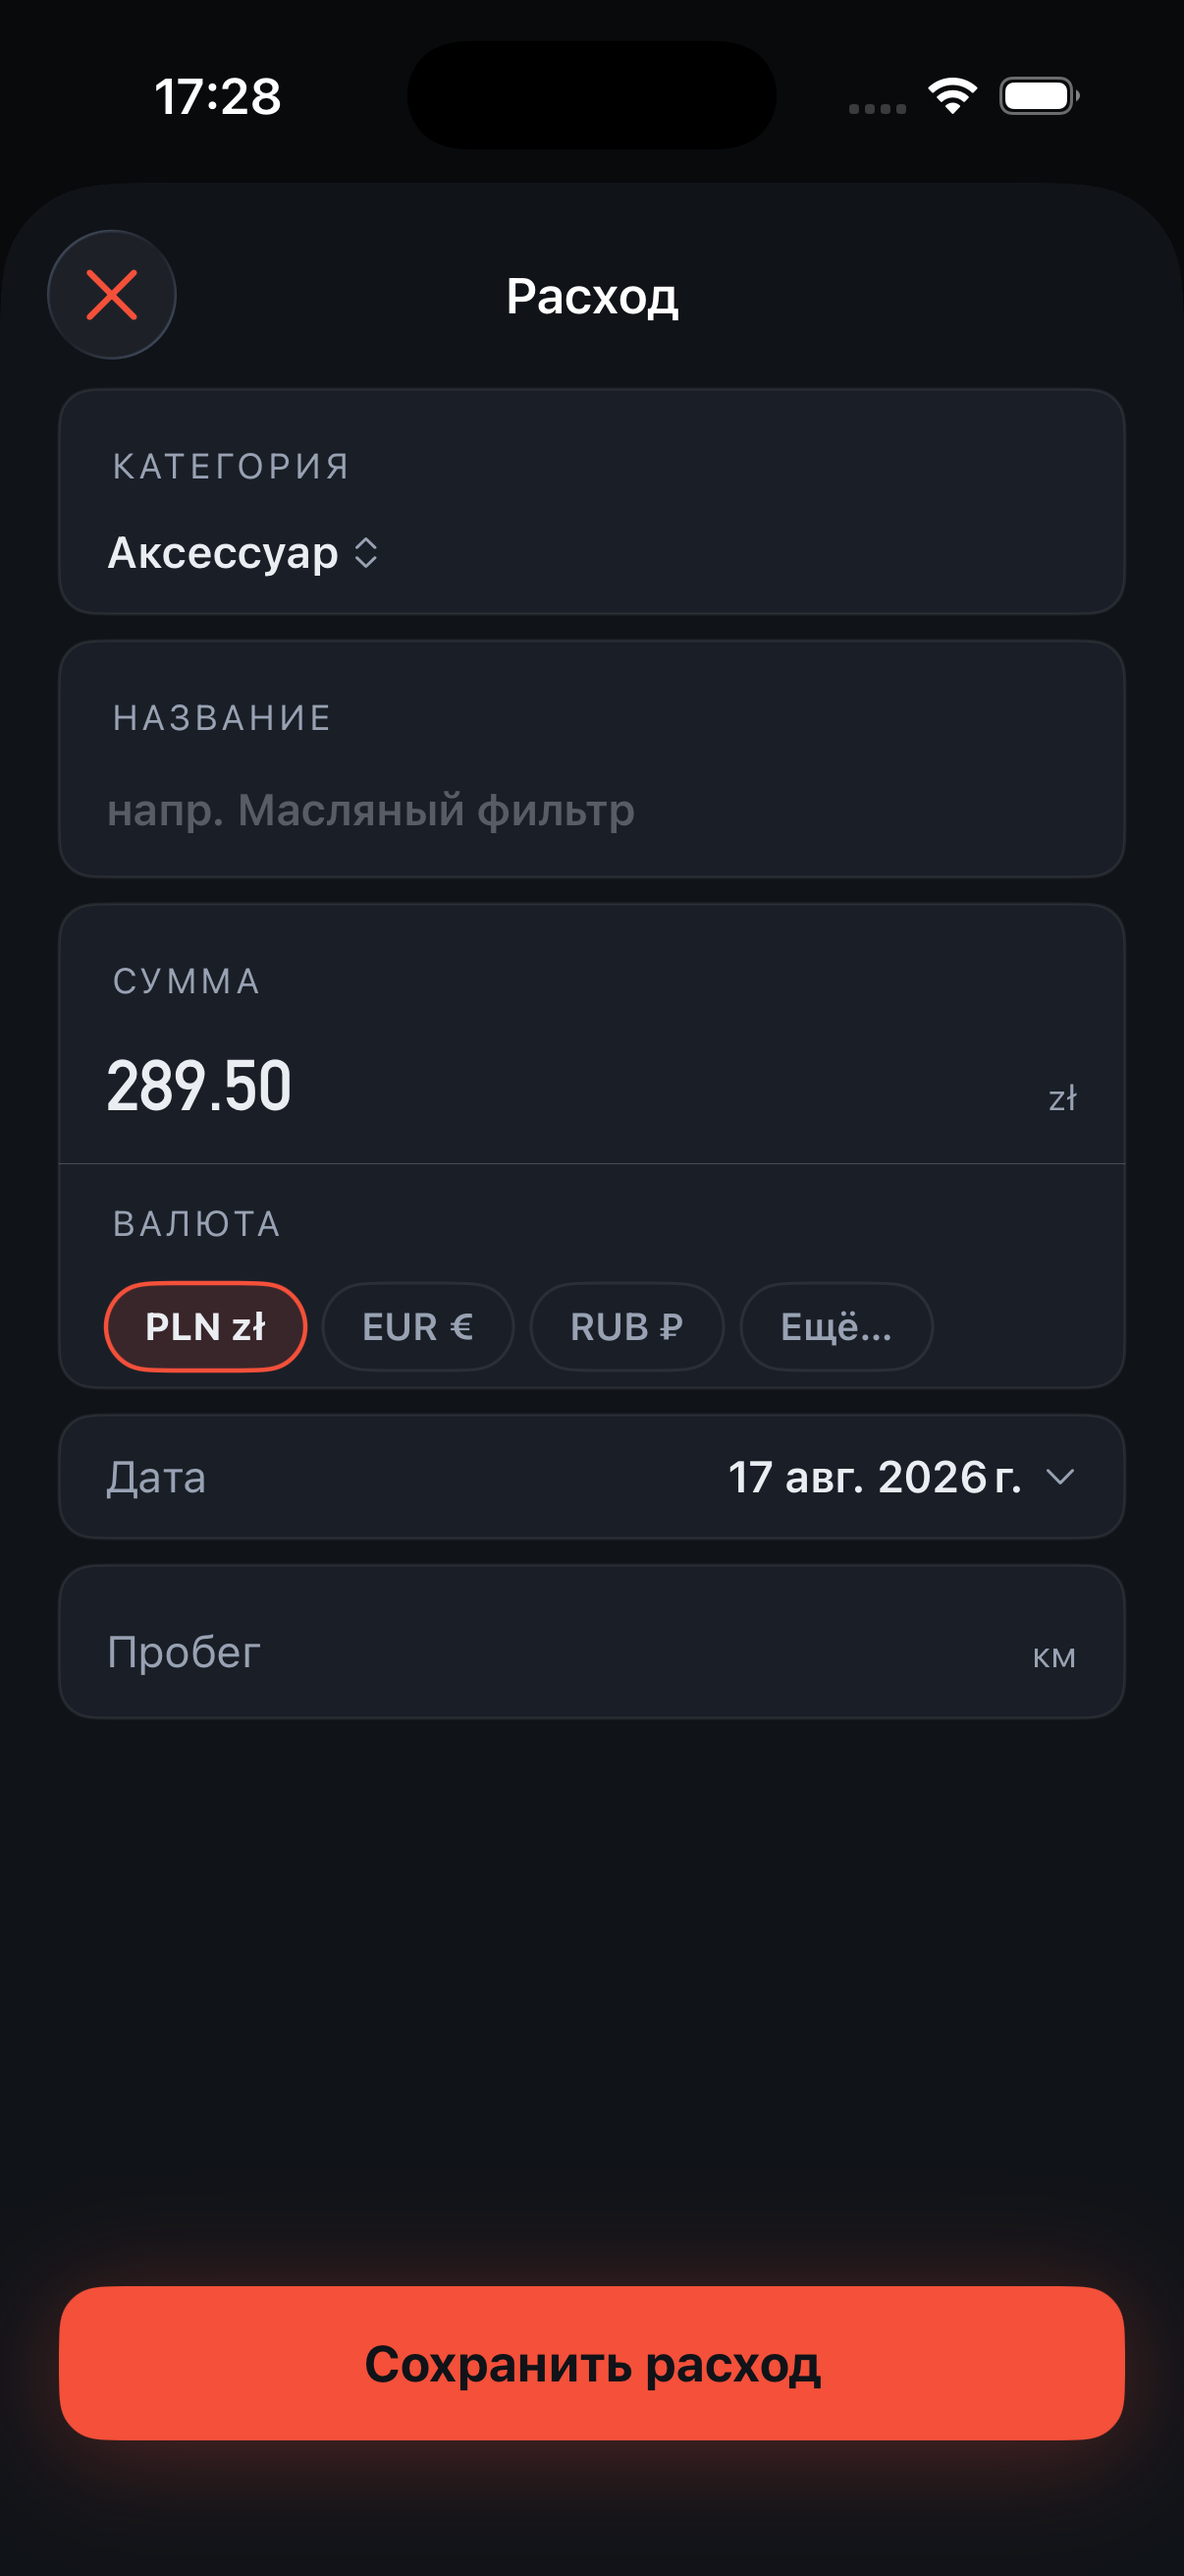
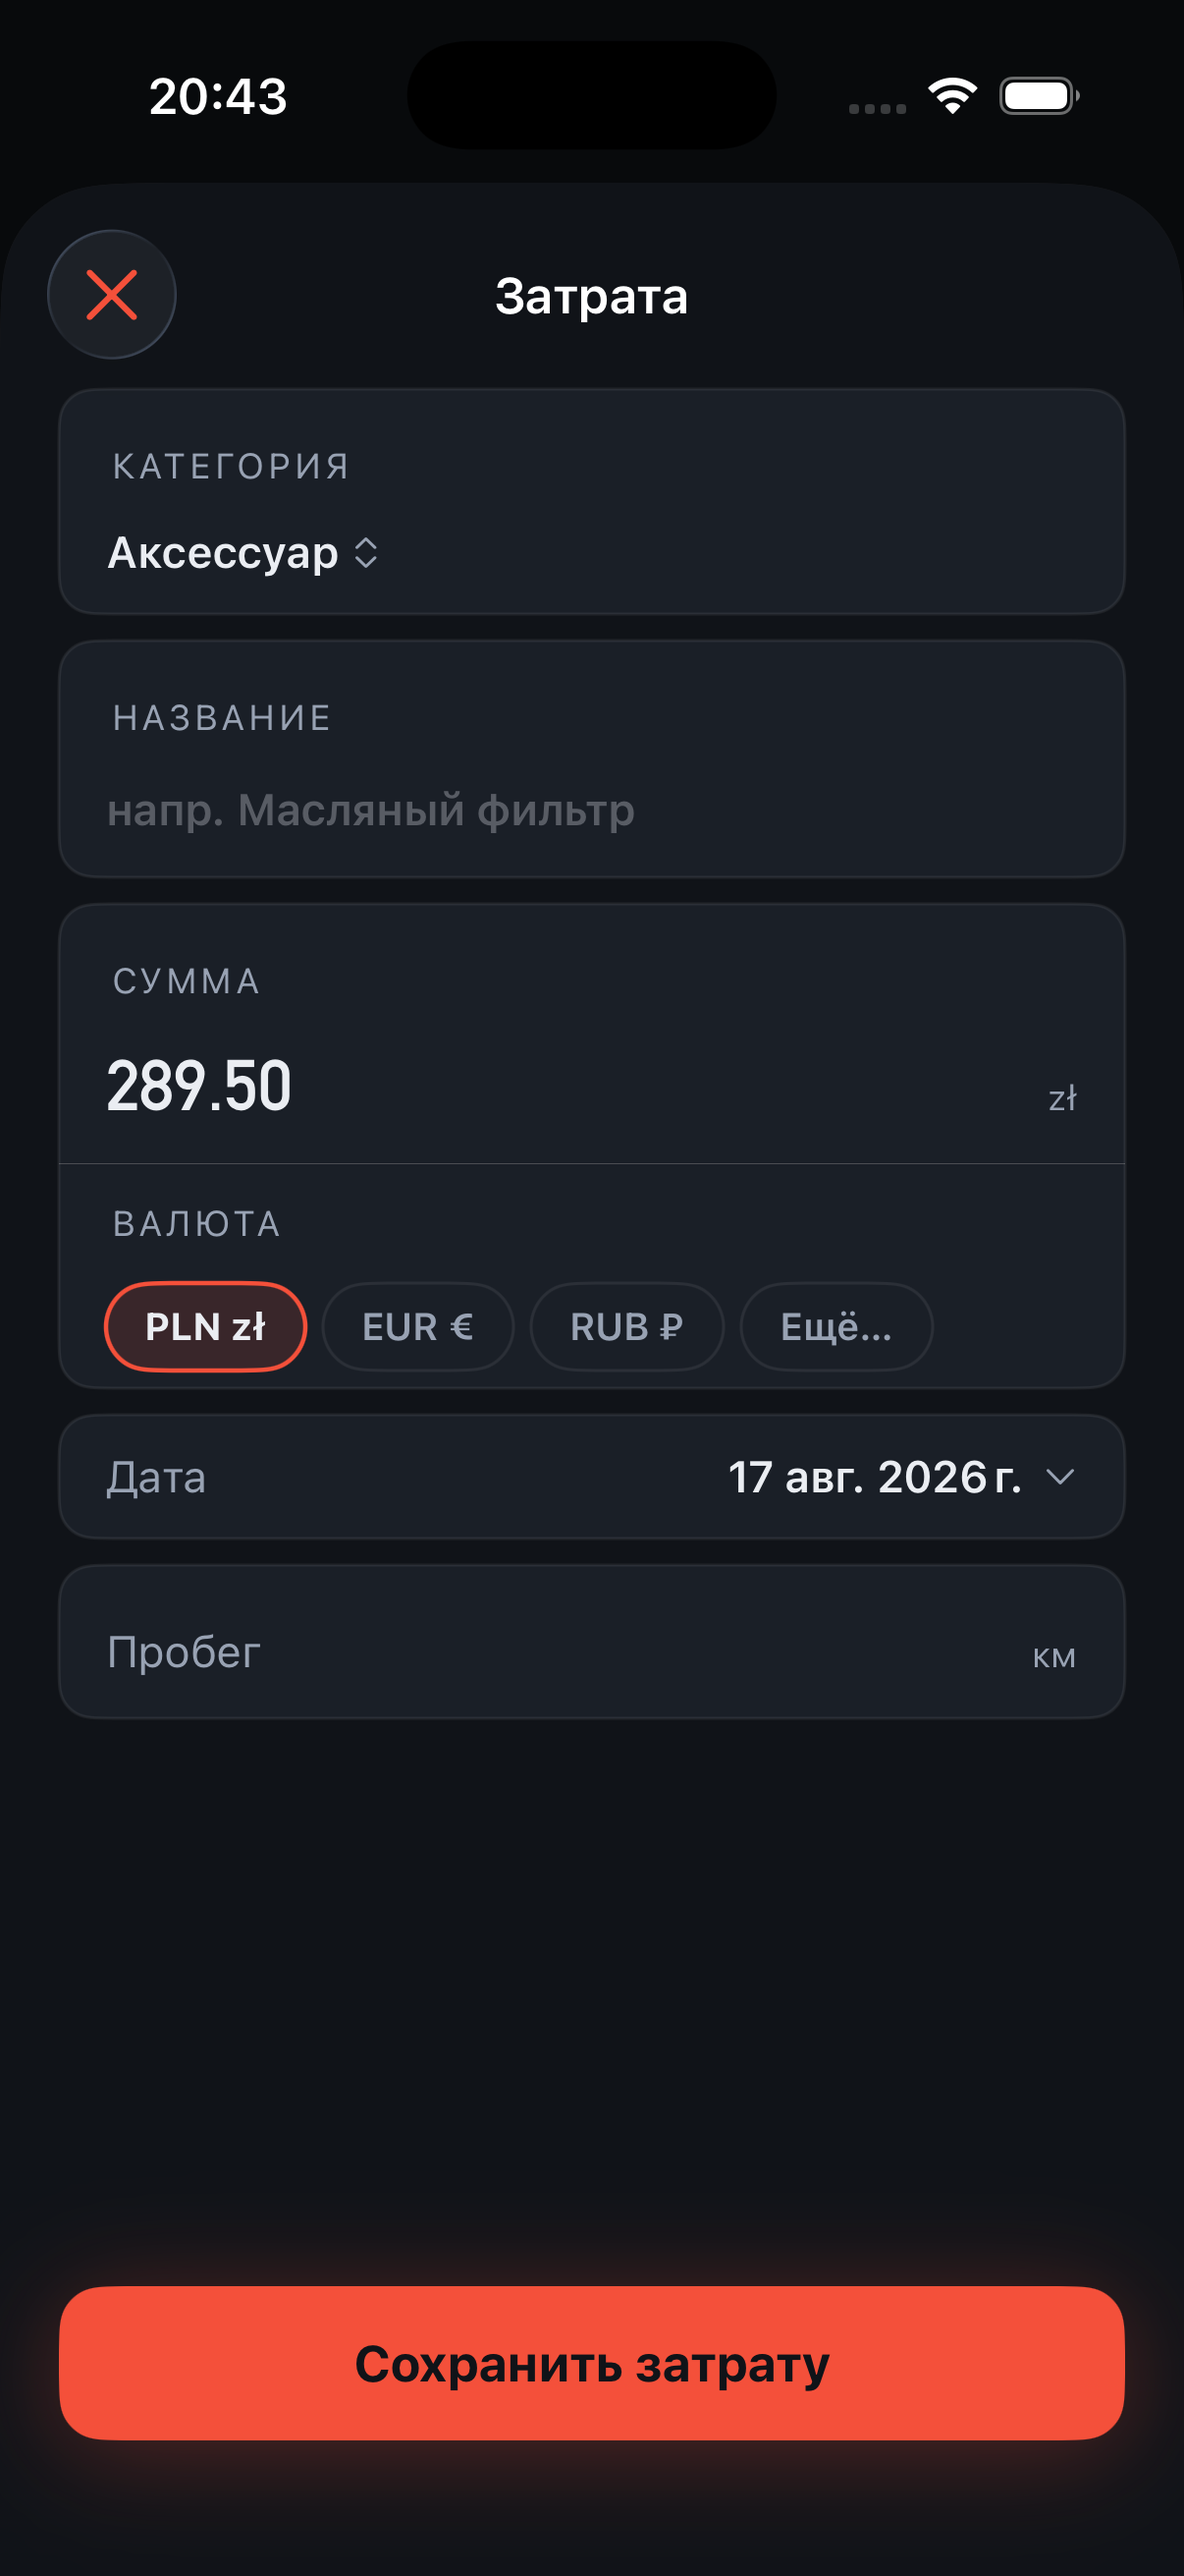
RV.281: an expense is "затрата" in Russian, never "расход" - the word the app uses for consumption
Fourteen RU values in the string catalog: the entry title, the Save
button, "Сервис и затраты", the import and reminder "as expense" actions,
the empty states and the fill-up + N expenses plural. Consumption strings
are untouched. The two localization-gate expectations follow the copy.

Verified by the orchestrator: gate.sh 0 (2110/260, app bundle 267,
lint 0), localization 45/45, manifest 0; the RU expense and service
capture frames re-captured and opened.

Changed region(s): [[0.3068, 0.8959, 0.7056, 0.9268], [0.4295, 0.0927, 0.5829, 0.1236], [0.1227, 0.0309, 0.2454, 0.0618]]

diff --git a/ios/Tests/LocalizationGateTests/LocalizationGateP53Tests.swift b/ios/Tests/LocalizationGateTests/LocalizationGateP53Tests.swift
@@ -226,11 +226,11 @@ struct LocalizationGateP53Tests {
             ("%lld items on this receipt", [1: "1 позиция в этом чеке", 2: "2 позиции в этом чеке",
                                             5: "5 позиций в этом чеке", 11: "11 позиций в этом чеке",
                                             21: "21 позиция в этом чеке"]),
-            ("Save fill-up + %lld expenses", [1: "Сохранить заправку + 1 расход",
-                                              2: "Сохранить заправку + 2 расхода",
-                                              5: "Сохранить заправку + 5 расходов",
-                                              11: "Сохранить заправку + 11 расходов",
-                                              21: "Сохранить заправку + 21 расход"]),
+            ("Save fill-up + %lld expenses", [1: "Сохранить заправку + 1 затрата",
+                                              2: "Сохранить заправку + 2 затраты",
+                                              5: "Сохранить заправку + 5 затрат",
+                                              11: "Сохранить заправку + 11 затрат",
+                                              21: "Сохранить заправку + 21 затрата"]),
             ("Synced %lld days ago", [1: "Синхронизировано 1 день назад", 2: "Синхронизировано 2 дня назад",
                                       5: "Синхронизировано 5 дней назад", 11: "Синхронизировано 11 дней назад",
                                       21: "Синхронизировано 21 день назад"]),

diff --git a/ios/Tests/LocalizationGateTests/LocalizationGateTests.swift b/ios/Tests/LocalizationGateTests/LocalizationGateTests.swift
@@ -315,7 +315,7 @@ struct LocalizationGateTests {
         // on P1.4 shipped word-order bugs exactly here ("%@ spend" became
         // "АВГУСТ РАСХОДЫ"), so assert the %@ is present, not just non-empty.
         let composedRU = catalogue.value(for: "%@ spend", language: "ru")
-        #expect(composedRU == "Расходы за %@")
+        #expect(composedRU == "Затраты за %@")
         #expect(composedRU?.contains("%@") == true)
 
         // Plural key: Russian has three forms plus a generic `other`; assert

diff --git a/docs/TASKS.md b/docs/TASKS.md
@@ -110,6 +110,7 @@ dispatch ledger moved to `docs/TASKS-HISTORY.md`.*
 | RV.114 | (J4 pump display photo - the unscored corpus) Six pump photos and two pump/receipt pairs from a | `[ ]` | below · RV · Reviewer bugs (first TestFlight build, 2026-09-02/03) |
 | RV.109 | no-scenario: test-suite timing, no user-facing behaviour 51 seconds of Thread.sleep in three UI | `[ ]` | below · RV · Reviewer bugs (first TestFlight build, 2026-09-02/03) |
 | RV.280 | (J7b the shop receipt - the late reading reaches the inbox; J3 the receipt catches up with you | `[x]` | below · RV · Reviewer bugs (first TestFlight build, 2026-09-02/03) |
+| RV.281 | (J7b the shop receipt; J3b type it - the RU copy) "Expense" is rendered in Russian as "расход" | `[x]` | below · RV · Reviewer bugs (first TestFlight build, 2026-09-02/03) |
 | AG.1 | no-scenario: the decision record the agent journeys are built from (docs/AGENT.md) Decisions wr | `[ ]` | below · AG · Car Agent **[v2]** (Pro) |
 | AG.2 | (J14 the Ask tab) Tab bar: fifth slot - AppTabBar gains Ask (glyph + label, never raised), Rout | `[ ]` | below · AG · Car Agent **[v2]** (Pro) |
 | AG.3 | (J14 the Ask tab) Ask screen: not-Pro and offline states (AgentAsk.dc.html): examples as taps t | `[ ]` | below · AG · Car Agent **[v2]** (Pro) |
@@ -860,6 +861,7 @@ hardware. `RV.1`-`RV.5`, `RV.7`-`RV.9` and `RV.11`-`RV.16` are fixed; `RV.10`, `
 | **[ ]** RV.114 | (J4 pump display photo - the unscored corpus) **Six pump photos and two pump/receipt pairs from a real Estonian forecourt, unscored.** Added 2026-09-07 from the product owner's own capture session (EXIF stripped, HEIC transcoded to JPEG): `pump-067`..`pump-072` with ground truth in `fixtures/pump/expected.csv`, and `receipt-049`..`receipt-051` in `fixtures/receipts/expected.csv`. **What they add that the corpus did not have**: **two matched pump-and-receipt pairs** for the same transaction - `pump-067` + `receipt-049` (Pump 4, 48.37 L, 99.59 EUR) and `pump-068` + `receipt-050` (Pump 7, 70.70 L, 148.40 EUR) - so a cross-check can be scored against a second source of truth rather than a hand-typed expectation; **a 90-degree-rotated pump** (`pump-069`), **a 90-degree-rotated receipt** (`receipt-050`) and an **UPSIDE-DOWN (180-degree) receipt** (`receipt-051`, a Gazpromneft G-Drive 95 fuel-card slip in Cyrillic) - three orientations the corpus had no example of, and 180 degrees is the one a human reader barely notices while OCR fails completely; **a mid-segment digit** (`pump-071`, the last litre digit caught between numerals); **heavy glare obscuring the total while the volume stays crisp** (`pump-067`, whose paired receipt gives the answer); and **a four-grade price board whose displayed prices do NOT include the transaction's** (`pump-072`: 10.01 L for 18.96 EUR is 1.894/L, while the board reads 2.099/2.109/2.119/2.059 - a loyalty discount), which is the shape that makes "read the price off the board" wrong | **Score them and let the numbers move the gate, not the other way round.** Run the harness (`swift run ReceiptSpike <folder>`), record what the parser gets right and wrong per image, and **update `HIGH-WATER.md` and the ratchet honestly** - hard rule 15's measured sentence is re-measured, never assumed. **Decide what a rotated capture should DO** before changing any parser: the app can rotate before OCR, ask the user, or accept the miss - say which, because Vision's own orientation handling is the thing being tested here. **The two pairs are the valuable part**: use them to check that a pump read and its receipt read agree, which is the only place in the corpus where the same fill has two independent sources | L5: the corpus gate runs over the new images and the recorded scores match what the harness actually produced. L1: for each pair, the pump-derived and receipt-derived triples agree to the cent. **Vacuous traps**: adding the images without scoring them, which grows the corpus and proves nothing; lowering the ratchet to accommodate a new miss instead of recording the miss; asserting the files exist |
 | **[ ]** RV.109 | no-scenario: test-suite timing, no user-facing behaviour **51 seconds of `Thread.sleep` in three UI tests, and they are the only thing proving the late-answer ordering.** From `docs/UI-TEST-REVIEW.md` and **verified**: `GatewayCaptureUITests.swift:175` sleeps **16 s**, `:205` sleeps **26 s**, and `RV57CapturePrefillUITests.swift:155` sleeps **9 s**. That is 51 seconds of wall clock added to every run of those suites, and it is machine-scheduling-dependent: the same tests pass or fail on how loaded the box is, which is the false-red shape that has already cost this project two sessions. The scenarios themselves matter - they pin `RV.57`'s promise that a late cloud answer lands in the inbox and never moves a value under the user's cursor | **Make the ordering an event, not a delay.** The three moments the tests actually mean are "before the budget", "after the budget" and "after save" - drive them with a test-controlled transport that can be released at a named step, an injected clock, or a test-visible phase, and assert the phase. **Keep every existing assertion**: this row changes how the moment is reached, never what is checked. **Do not** shorten the sleeps to make the suite faster - a shorter race is a flakier one | L4: the three scenarios pass with **no `Thread.sleep`**, and the suite's wall clock drops by the measured amount (report before -> after). L4: releasing the transport at the "after budget" step still produces the inbox landing, and at "before budget" still produces the prefill - so the two orderings remain distinguishable. **Vacuous traps**: replacing a sleep with a long `waitForExistence` on something already present, which waits zero and proves nothing; deleting a scenario because it was slow; asserting the sleep is gone without asserting the ordering is still pinned |
 | **[x]** RV.280 | (J7b the shop receipt - the late reading reaches the inbox; J3 the receipt catches up with you; J10 a foreign receipt) **The late expense read drops the receipt's currency, so a foreign figure is offered - and on one tick stored - as home money.** Found by the orchestrator's J7b walk after [RV.279] (`diagnostics/REVIEW-SCENARIO-J7b-2026-09-13.md`): `ExpenseRecognition` (`InboxRecognition.swift:84-87`) has no `currency` while `ServiceRecognition` and the fuel extraction do; `ExpenseScanOutcome.recognition(from:preset:)` (`ExpenseEntrySession.swift:46`) maps the total and never the currency; `GatewayInboxPolicy.expenseOffers` (`:269`) offers the foreign figure against the home amount and `mergedExpense` (`:379`) applies it with `replacingAmount`; `InboxComparison.expenseReceipt` renders the read total under the ENTRY's symbol. The fuel (`:230`, `:310`) and service (`:257`, `:358`) branches carry the currency end to end - the sibling shape. Before RV.279 the pre-fill withheld a foreign total; the late read never did | `ExpenseRecognition.currency`, filled from `extraction.currency`; `expenseOffers` offers `.currency` and `mergedExpense` applies it with `replacingCurrency`, mirroring the service branch; the receipt column renders the read's own symbol. J7b's late-reading sentence gains the currency | L1 (`RV280LateExpenseCurrencyTests`): a foreign late read offers `.total` and `.currency`, taking both yields a pair in the read's currency, taking the total alone keeps the entry's; L4 `InboxUITests` EN + RU: the receipt side shows the read's symbol. **Mutation**: pass `currency: nil` in `recognition(from:preset:)`; red. **Vacuous trap**: asserting `.total` is offered, which already passes **Shipped 2026-09-13** (flash). **Fix**: `ExpenseRecognition.currency` (nil = the read said nothing, never home); `ExpenseScanOutcome.recognition(from:preset:)` fills it from the extraction; `expenseOffers` offers `.currency` and `mergedExpense` applies it with `replacingCurrency` after the amount, mirroring the service branch; `InboxComparison.expenseReceipt` renders the read total under the read's symbol and adds the currency row. J7b's late-reading paragraph and the two `ERRORS.md` Inbox rows name the currency. **Mutation (orchestrator-run)**: `currency: nil` in the producer turns 4 of 5 `RV280LateExpenseCurrencyTests` red (*the saved EUR pair and the read PLN pair disagree*; *taking both halves leaves the pair in the read's currency*); restored, green. Gates in the orchestrator's hands: `RELEASE=1 gate.sh` 0 at **2099 / 258**, app bundle **261**, lint 0, manifest 0; `InboxExpenseCurrencyUITests` **2/2** (its own file - `InboxUITests` was at the type-body ceiling), `InboxUITests` **18/18**, signed. Both frames opened: the receipt column shows the foreign figure under its own symbol, RU without overflow. Left open: coupling total+currency into one tick (owner question in `REVIEW-SCENARIO-J7b-2026-09-13.md`). |
+| **[x]** RV.281 | (J7b the shop receipt; J3b type it - the RU copy) **"Expense" is rendered in Russian as "расход", the same word the app uses for fuel consumption.** Product owner 2026-09-13: *translate "expenses" in Russian to "затраты"*. On the Log the two readings sit side by side - "Расход" as l/100 km and "Расход" as a parking ticket - and the tab title "Сервис и расходы" reads as consumption to a Russian driver | Every RU string that renders an EXPENSE (never consumption) says затрата/затраты: the entry title, Save button, the Service & expenses title, the import and reminder "as expense" actions, the empty states and the fill-up + N expenses plural (затрата/затраты/затрат). Consumption strings untouched | Localization gate 0 (its two RU expectations updated); RU screenshots of the expense and service capture forms **Shipped 2026-09-13** (orchestrator, a catalog edit - not dispatched). 14 RU values changed in `Localizable.xcstrings`; `LocalizationGateTests` (the composed `%@ spend` key) and `LocalizationGateP53Tests` (the fill-up + N expenses plural) updated to the new words. The marketing site's RU pages still say *журнал расходов* (car cost log) - left for the owner to decide, they are not the app's strings. Gates in the orchestrator's hands: localization 45/45, `gate.sh` 0; `RV.279-expense-capture-ru` and `RV.279-service-capture-ru` re-captured and opened. |
 
 ## OB · Observability **[v1.0.x]** - the device can say what it did
 

diff --git a/docs/TASKS-HISTORY.md b/docs/TASKS-HISTORY.md
@@ -116,6 +116,7 @@ died instantly with `database is locked` and never reached the model (re-dispatc
 | `RV.280` | **flash** | 2026-09-13 | 190 KB |
 | `PJ.29` | **flash** | 2026-09-13 | 623 KB |
 | `PJ.29a` | **flash** | 2026-09-13 | 476 KB |
+| `RV.281` | **orchestrator** (catalog edit, no dispatch) | 2026-09-13 | - |
 
 ## What the four grouped dispatches of 2026-09-10 cost to verify
 
